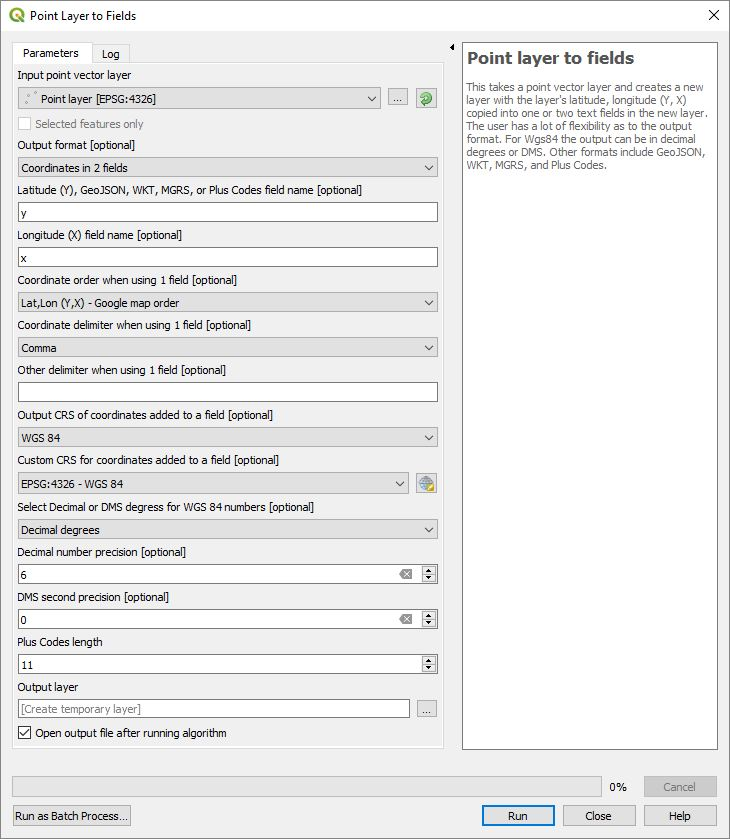
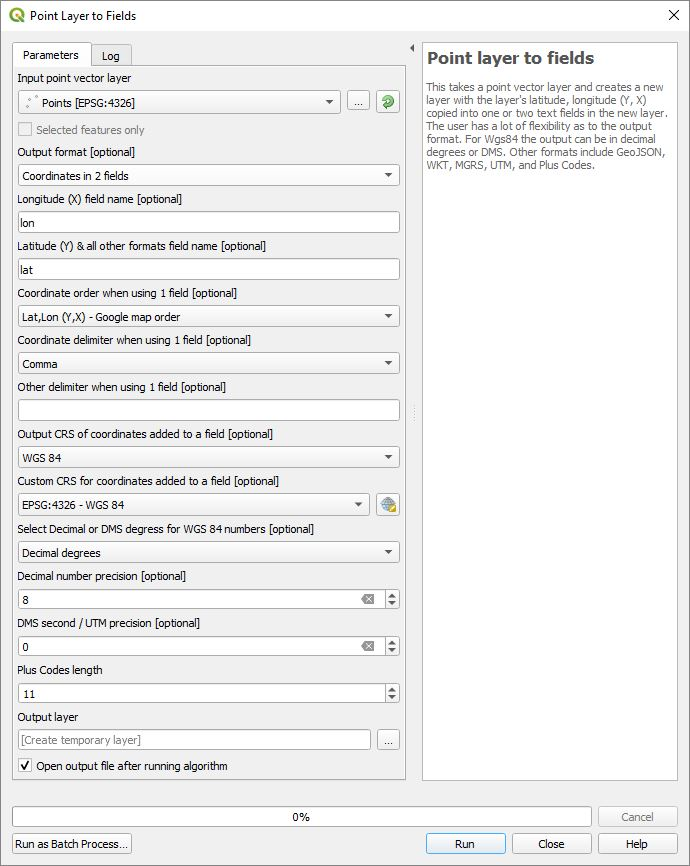
Added standard WGS84 UTM support

Changed region(s): [[0.0, 0.0, 1.0, 0.8987], [0.0, 0.8987, 1.0, 0.9917]]

diff --git a/utm.py b/utm.py
@@ -1,0 +1,136 @@
+from qgis.core import QgsPointXY, QgsCoordinateReferenceSystem, QgsCoordinateTransform, QgsProject
+from .util import epsg4326
+
+utm_epsg_codes = {
+'1N': 'EPSG:32601',
+'2N': 'EPSG:32602',
+'3N': 'EPSG:32603',
+'4N': 'EPSG:32604',
+'5N': 'EPSG:32605',
+'6N': 'EPSG:32606',
+'7N': 'EPSG:32607',
+'8N': 'EPSG:32608',
+'9N': 'EPSG:32609',
+'10N': 'EPSG:32610',
+'11N': 'EPSG:32611',
+'12N': 'EPSG:32612',
+'13N': 'EPSG:32613',
+'14N': 'EPSG:32614',
+'15N': 'EPSG:32615',
+'16N': 'EPSG:32616',
+'17N': 'EPSG:32617',
+'18N': 'EPSG:32618',
+'19N': 'EPSG:32619',
+'20N': 'EPSG:32620',
+'21N': 'EPSG:32621',
+'22N': 'EPSG:32622',
+'23N': 'EPSG:32623',
+'24N': 'EPSG:32624',
+'25N': 'EPSG:32625',
+'26N': 'EPSG:32626',
+'27N': 'EPSG:32627',
+'28N': 'EPSG:32628',
+'29N': 'EPSG:32629',
+'30N': 'EPSG:32630',
+'31N': 'EPSG:32631',
+'32N': 'EPSG:32632',
+'33N': 'EPSG:32633',
+'34N': 'EPSG:32634',
+'35N': 'EPSG:32635',
+'36N': 'EPSG:32636',
+'37N': 'EPSG:32637',
+'38N': 'EPSG:32638',
+'39N': 'EPSG:32639',
+'40N': 'EPSG:32640',
+'41N': 'EPSG:32641',
+'42N': 'EPSG:32642',
+'43N': 'EPSG:32643',
+'44N': 'EPSG:32644',
+'45N': 'EPSG:32645',
+'46N': 'EPSG:32646',
+'47N': 'EPSG:32647',
+'48N': 'EPSG:32648',
+'49N': 'EPSG:32649',
+'50N': 'EPSG:32650',
+'51N': 'EPSG:32651',
+'52N': 'EPSG:32652',
+'53N': 'EPSG:32653',
+'54N': 'EPSG:32654',
+'55N': 'EPSG:32655',
+'56N': 'EPSG:32656',
+'57N': 'EPSG:32657',
+'58N': 'EPSG:32658',
+'59N': 'EPSG:32659',
+'60N': 'EPSG:32660',
+'1S': 'EPSG:32701',
+'2S': 'EPSG:32702',
+'3S': 'EPSG:32703',
+'4S': 'EPSG:32704',
+'5S': 'EPSG:32705',
+'6S': 'EPSG:32706',
+'7S': 'EPSG:32707',
+'8S': 'EPSG:32708',
+'9S': 'EPSG:32709',
+'10S': 'EPSG:32710',
+'11S': 'EPSG:32711',
+'12S': 'EPSG:32712',
+'13S': 'EPSG:32713',
+'14S': 'EPSG:32714',
+'15S': 'EPSG:32715',
+'16S': 'EPSG:32716',
+'17S': 'EPSG:32717',
+'18S': 'EPSG:32718',
+'19S': 'EPSG:32719',
+'20S': 'EPSG:32720',
+'21S': 'EPSG:32721',
+'22S': 'EPSG:32722',
+'23S': 'EPSG:32723',
+'24S': 'EPSG:32724',
+'25S': 'EPSG:32725',
+'26S': 'EPSG:32726',
+'27S': 'EPSG:32727',
+'28S': 'EPSG:32728',
+'29S': 'EPSG:32729',
+'30S': 'EPSG:32730',
+'31S': 'EPSG:32731',
+'32S': 'EPSG:32732',
+'33S': 'EPSG:32733',
+'34S': 'EPSG:32734',
+'35S': 'EPSG:32735',
+'36S': 'EPSG:32736',
+'37S': 'EPSG:32737',
+'38S': 'EPSG:32738',
+'39S': 'EPSG:32739',
+'40S': 'EPSG:32740',
+'41S': 'EPSG:32741',
+'42S': 'EPSG:32742',
+'43S': 'EPSG:32743',
+'44S': 'EPSG:32744',
+'45S': 'EPSG:32745',
+'46S': 'EPSG:32746',
+'47S': 'EPSG:32747',
+'48S': 'EPSG:32748',
+'49S': 'EPSG:32749',
+'50S': 'EPSG:32750',
+'51S': 'EPSG:32751',
+'52S': 'EPSG:32752',
+'53S': 'EPSG:32753',
+'54S': 'EPSG:32754',
+'55S': 'EPSG:32755',
+'56S': 'EPSG:32756',
+'57S': 'EPSG:32757',
+'58S': 'EPSG:32758',
+'59S': 'EPSG:32759',
+'60S': 'EPSG:32760',
+}
+
+def latLon2UtmString(zone, lat, lon, precision):
+    try:
+        utmcrs = QgsCoordinateReferenceSystem(utm_epsg_codes[zone])
+        utmtrans = QgsCoordinateTransform(epsg4326, utmcrs, QgsProject.instance())
+        pt = QgsPointXY(lon, lat)
+        utmpt = utmtrans.transform(pt)
+        msg = '{} {:.{prec}f} {:.{prec}f}'.format(zone, utmpt.x(), utmpt.y(), prec=precision)
+    except:
+        msg = ''
+    return( msg )

diff --git a/geom2field.py b/geom2field.py
@@ -2,7 +2,7 @@ import os
 
 from qgis.PyQt.QtCore import QVariant, QCoreApplication, QUrl
 from qgis.PyQt.QtGui import QIcon
-from qgis.core import QgsFields, QgsField, QgsFeature, QgsCoordinateTransform, QgsProject
+from qgis.core import QgsFields, QgsField, QgsFeature, QgsCoordinateReferenceSystem, QgsCoordinateTransform, QgsProject
 
 from qgis.core import (QgsProcessing,
     QgsProcessingException,
@@ -17,6 +17,7 @@ from qgis.core import (QgsProcessing,
 from . import mgrs
 from .LatLon import LatLon
 from .util import epsg4326
+from .utm import latLon2UtmString
 from . import olc
 
 
@@ -59,22 +60,22 @@ class Geom2FieldAlgorithm(QgsProcessingAlgorithm):
                 tr('Output format'),
                 options=[tr('Coordinates in 2 fields'),
                     tr('Coordinates in 1 field'),
-                    'GeoJSON', 'WKT', 'MGRS', 'Plus Codes'],
+                    'GeoJSON', 'WKT', 'MGRS', 'Plus Codes', 'Standard UTM'],
                 defaultValue=0,
                 optional=True)
         )
         self.addParameter(
             QgsProcessingParameterString(
-                self.PrmYFieldName,
-                tr('Latitude (Y), GeoJSON, WKT, MGRS, or Plus Codes field name'),
-                defaultValue='y',
+                self.PrmXFieldName,
+                tr('Longitude (X) field name'),
+                defaultValue='x',
                 optional=True)
             )
         self.addParameter(
             QgsProcessingParameterString(
-                self.PrmXFieldName,
-                tr('Longitude (X) field name'),
-                defaultValue='x',
+                self.PrmYFieldName,
+                tr('Latitude (Y) & all other formats field name'),
+                defaultValue='y',
                 optional=True)
             )
         self.addParameter(
@@ -136,7 +137,7 @@ class Geom2FieldAlgorithm(QgsProcessingAlgorithm):
         self.addParameter(
             QgsProcessingParameterNumber(
                 self.PrmDMSSecondPrecision,
-                tr('DMS second precision'),
+                tr('DMS second / UTM precision'),
                 type=QgsProcessingParameterNumber.Integer,
                 defaultValue=0,
                 optional=True,
@@ -273,8 +274,15 @@ class Geom2FieldAlgorithm(QgsProcessingAlgorithm):
                     msg = 'POINT({:.{prec}f} {:.{prec}f})'.format(pt.x(), pt.y(), prec=decimalPrecision)
                 elif outputFormat == 4: # MGRS
                     msg = mgrs.toMgrs(pt.y(), pt.x(), 5)
-                else: # Plus codes
+                elif outputFormat == 5: # Plus codes
                     msg = olc.encode(pt.y(), pt.x(), plusCodesLength)
+                else: # WGS 84 UTM  
+                    zone = int( (pt.x() + 180) / 6) + 1
+                    if pt.y() >= 0:
+                        zonestr = '{}N'.format(zone)
+                    else:
+                        zonestr = '{}S'.format(zone)
+                    msg = latLon2UtmString(zonestr, pt.y(), pt.x(), dmsPrecision)
             except:
                 msg = ''
 

diff --git a/copyLatLonTool.py b/copyLatLonTool.py
@@ -1,11 +1,12 @@
 from qgis.PyQt.QtCore import Qt, pyqtSignal
 from qgis.PyQt.QtWidgets import QApplication
-from qgis.core import Qgis, QgsCoordinateTransform, QgsPointXY, QgsProject
+from qgis.core import Qgis, QgsCoordinateTransform, QgsCoordinateReferenceSystem, QgsPointXY, QgsProject
 from qgis.gui import QgsMapToolEmitPoint, QgsVertexMarker
 
 from .settings import settings
 from .LatLon import LatLon
-from .util import *
+from .util import epsg4326
+from .utm import latLon2UtmString
 from . import mgrs
 from . import olc
 #import traceback
@@ -115,6 +116,20 @@ class CopyLatLonTool(QgsMapToolEmitPoint):
                 msg = olc.encode(pt4326.y(), pt4326.x(), self.settings.plusCodesLength)
             except:
                 msg = None
+        elif self.settings.captureProjIsUTM():
+            # Make sure the coordinate is transformed to EPSG:4326
+            canvasCRS = self.canvas.mapSettings().destinationCrs()
+            if canvasCRS == epsg4326:
+                pt4326 = pt
+            else:
+                transform = QgsCoordinateTransform(canvasCRS, epsg4326, QgsProject.instance())
+                pt4326 = transform.transform(pt.x(), pt.y())
+            zone = int( (pt4326.x() + 180) / 6) + 1
+            if pt4326.y() >= 0:
+                zonestr = '{}N'.format(zone)
+            else:
+                zonestr = '{}S'.format(zone)
+            msg = latLon2UtmString(zonestr, pt4326.y(), pt4326.x(), self.settings.dmsPrecision)
         
         msg = '{}{}{}'.format(self.settings.capturePrefix, msg, self.settings.captureSuffix)
         return msg

diff --git a/settings.py b/settings.py
@@ -71,6 +71,7 @@ class SettingsWidget(QDialog, FORM_CLASS):
     ProjectionTypeProjectCRS = 2
     ProjectionTypeCustomCRS = 3
     ProjectionTypePlusCodes = 4
+    ProjectionTypeUTM = 5
     OrderYX = 0
     OrderXY = 1
     def __init__(self, lltools, iface, parent):
@@ -83,7 +84,7 @@ class SettingsWidget(QDialog, FORM_CLASS):
         self.buttonBox.button(QDialogButtonBox.RestoreDefaults).clicked.connect(self.restoreDefaults)
         
         ### CAPTURE SETTINGS ###
-        self.captureProjectionComboBox.addItems(['WGS 84 (Latitude & Longitude)', 'MGRS', 'Project CRS', 'Custom CRS', 'Plus Codes'])
+        self.captureProjectionComboBox.addItems(['WGS 84 (Latitude & Longitude)', 'MGRS', 'Project CRS', 'Custom CRS', 'Plus Codes', 'Standard UTM'])
         self.captureProjectionSelectionWidget.setCrs(epsg4326)
         self.wgs84NumberFormatComboBox.addItems(['Decimal Degrees', 'DMS', 'DDMMSS', 'WKT POINT', 'GeoJSON'])
         self.otherNumberFormatComboBox.addItems(['Normal Coordinate', 'WKT POINT'])
@@ -431,6 +432,11 @@ class SettingsWidget(QDialog, FORM_CLASS):
     
     def captureProjIsPlusCodes(self):
         if self.captureProjection == self.ProjectionTypePlusCodes:
+            return True
+        return False
+    
+    def captureProjIsUTM(self):
+        if self.captureProjection == self.ProjectionTypeUTM:
             return True
         return False
 

diff --git a/readme.md b/readme.md
@@ -8,7 +8,7 @@ Some of the functions can be accessed from the ***Lat Lon Tools*** toolbar. If f
 
 <div style="text-align:center"><img src="doc/toolbar.jpg" alt="Lat Lon Tools toolbar"></div>
 
-* <img src="images/copyicon.png" alt="Copy coordinate"> ***Copy Latitude, Longitude*** - This captures coordinates onto the clipboard when the user clicks on the map, using the standard Google Map format or a format specified in ***Settings***. If the user specifies a **Tab** separator, then the coordinate can be pasted into a spreadsheet in separate columns. While this tool is selected, the coordinate the mouse is over is shown in the lower left-hand corner either in **decimal degrees**, **DMS**, **MGRS**, **Plus Codes**, **WKT POINT**, or **GeoJSON** notation depending on the **Settings**. By default it uses the Geographic Latitude and Longitude to snapshot the coordinate, but this can be configured in **Settings** to use the project CRS or any other projection desired. See the **Settings** section for more details on the all the possibilities. An additional prefix or suffix can be added to the coordinate and is configured in **Settings**.
+* <img src="images/copyicon.png" alt="Copy coordinate"> ***Copy Latitude, Longitude*** - This captures coordinates onto the clipboard when the user clicks on the map, using the standard Google Map format or a format specified in ***Settings***. If the user specifies a **Tab** separator, then the coordinate can be pasted into a spreadsheet in separate columns. While this tool is selected, the coordinate the mouse is over is shown in the lower left-hand corner either in **decimal degrees**, **DMS**, **MGRS**, **Standard UTM**, **Plus Codes**, **WKT POINT**, or **GeoJSON** notation depending on the **Settings**. By default it uses the Geographic Latitude and Longitude to snapshot the coordinate, but this can be configured in **Settings** to use the project CRS or any other projection desired. See the **Settings** section for more details on the all the possibilities. An additional prefix or suffix can be added to the coordinate and is configured in **Settings**.
   
 * <img src="images/mapicon.png" alt="Show in External Map"> ***Show in External Map*** - With this tool, the user can click on the QGIS map which launches an external browser and displays the location on an external map. Currently Open Street Map, Google Maps, MapQuest, and Bing Maps are supported. Google Earth is supported if it is installed on the system. The desired map can be configured in **Settings**. A temporary marker can be displayed on the map at the location clicked on. To turn this on go to **Settings**.
 
@@ -77,7 +77,7 @@ Some of the functions can be accessed from the ***Lat Lon Tools*** toolbar. If f
     
     <div style="text-align:center"><img src="doc/field2geom.jpg" alt="Fields to point layer"></div>
     
-    * <img src="images/geom2field.png" alt="Point layer to field"> ***Point layer to fields*** - This takes a point vector layer and creates a new layer with the layer's latitude, longitude (Y, X) copied into one or two fields in the new layer. The user has a lot of flexibility as to the output format. For Wgs84 the output can be in decimal degrees or DMS. Other formats include GeoJSON, WKT, MGRS, and Plus Codes. 
+    * <img src="images/geom2field.png" alt="Point layer to field"> ***Point layer to fields*** - This takes a point vector layer and creates a new layer with the layer's latitude, longitude (Y, X) copied into one or two fields in the new layer. The user has a lot of flexibility as to the output format. For Wgs84 the output can be in decimal degrees or DMS. Other formats include GeoJSON, WKT, MGRS, Standard UTM, and Plus Codes. 
     
     <div style="text-align:center"><img src="doc/geom2field.jpg" alt="Point layer to Field"></div>
     
@@ -119,6 +119,7 @@ There are 5 capture projections/formats that can be selected from the ***CRS/Pro
 * **Project CRS** - This captures the coordinates using the project's specified CRS.
 * **Custom CRS** - The captures the coordinate in any coordinate reference system regardless of what the project CRS is set to. When this is selected, then the ***Custom CRS*** dialog box is activated allowing selection of any projection.
 * **Plus Codes** - This captures the coordinate in [Google Plus Codes](https://plus.codes/) format.
+* **Standard UTM** - This has the form of '12N 417159.0 4515540.6'
 
 Additional coordinate formatting can be specified with ***WGS 84 (Latitude & Longitude) Number Format***.
 
@@ -143,7 +144,7 @@ The order in which the coordinates are captured are determined by ***Coordinate 
     * **Tab** - This useful if you are pasting the coordinates into two columns of a spreadsheet.
     * **Space**
     * **Other** - With this selected, the contents of ***Other Delimiter*** is used.
-* ***DMS Second Precision*** - Used when formatting DMS coordinates and specifies the number of digits after the decimal.
+* ***DMS Second / UTM Precision*** - Used when formatting DMS coordinates and Standard UTM coordinates and specifies the number of digits after the decimal.
 * ***Plus Codes Length*** - Used when formatting Plus Code coordinates. The minimum value is 10.
 * ***Coordinate prefix*** - This text string is added to the beginning of the captured coordinate.
 * ***Coordinate suffix*** - This text string is added to the end of the captured coordinate.
